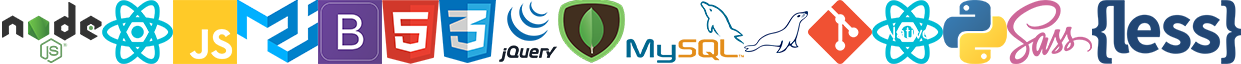
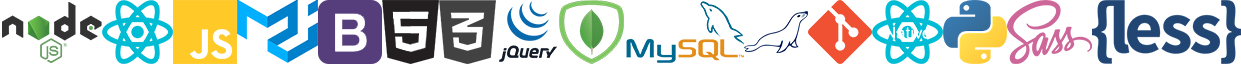
Updates

Changed region(s): [[0.245, 0.0, 0.3981, 1.0], [0.4287, 0.0, 0.5205, 1.0]]

diff --git a/src/components/talents.js b/src/components/talents.js
@@ -1,55 +1,63 @@
-import React from 'react'
+import React, { useEffect, useState } from 'react'
 
 import Box from '@material-ui/core/Box'
 import Grid from '@material-ui/core/Grid'
 import Typography from '@material-ui/core/Typography'
 import makeStyles from '@material-ui/styles/makeStyles'
 
-
 import { talentsBg } from '../config/assets'
+import { blue, pink, red } from '@material-ui/core/colors'
 
 const useStyles = makeStyles(theme => ({
-    container: {
-        display: 'flex',
-        justifyContent: "center",
-        flexWrap: 'wrap',
-        [theme.breakpoints.up('sm')]: {
-            justifyContent: "space-between"
-        }
-    },
-    list: {
-        display: 'flex',
-        justifyContent: 'center',
-        flexWrap: 'wrap',
-        '& > *': {
-            margin: theme.spacing(0.5),
-            color: "#62DAB4"
-        },
-        '& span': {
-            fontWeight: "initial"
-        }
-    },
-    section: {
+    SectionBox: {
+        outline: "none",
         outlineColor: "#62DAB4",
-        color: "#62DAB4"
+        color: "#62DAB4",
+        [theme.breakpoints.down('sm')]: {
+            padding: 20
+        }
     },
-    splitter: {
-        height: "20px"
+    MainBox: {
+        color: "white",
+        boxShadow: theme.shadows[6]
     },
-    listItemContainer: {
-        minWidth: 160,
+    HeaderText: {
+        lineHeight: .77,
+        [theme.breakpoints.down('sm')]: {
+            lineHeight: 1.2,
+            top: -15
+        }
+    },
+    InnerBox: {
+        display: "flex",
+        flexWrap: "wrap",
+        justifyContent: "center"
+    },
+    LanguageBox: {
+        backgroundColor: red["400"],
+        padding: theme.spacing(4),
+        height: "100%"
+    },
+    FrameworkBox: {
+        backgroundColor: blue["500"],
+        padding: theme.spacing(4),
+        height: "100%"
+    },
+    BackEndBox: {
+        backgroundColor: pink["500"],
+        padding: theme.spacing(4),
+        height: "100%"
+    },
+    ListItemBox: {
+        minWidth: 100,
         display: "flex",
         flexWrap: "wrap",
         flexDirection: "column",
         justifyContent: "center",
         alignItems: "center",
-        filter: "saturate(0%)",
-        transition: theme.transitions.create(
-            ["filter"],
-            { duration: theme.transitions.duration.short }
-        ),
-        "&:hover": {
-            filter: "saturate(100%)"
+        margin: theme.spacing(1),
+        '& div': {
+            filter: props => props.noInvert ? "" : "brightness(0) invert(1)",
         }
     },
     listItem: {
@@ -68,68 +76,29 @@ const useStyles = makeStyles(theme => ({
     }
 }))
 
+function Talent({ name, sizex, position, hideText, noInvert }) {
+    const classes = useStyles({ noInvert })
+
+    return (
+        <Box className={classes.ListItemBox}>
+            <div className={classes.listItem} style={{ backgroundPosition: position, width: sizex }} />
+            {hideText ?
+                ""
+                :
+                <p>{name}</p>}
+        </Box>
+    )
+}
 
 export default function Talents() {
     const classes = useStyles()
 
-    const talentsList = [
+    let backEndList = [
         {
             name: "NodeJS",
             sizex: "102px",
             position: "0 0",
             hideText: true
-        },
-        {
-            name: "ReactJS",
-            sizex: "71px",
-            position: "-102px 0"
-        },
-        {
-            name: "Javascript",
-            sizex: "64px",
-            position: "-173px 0"
-        },
-        {
-            name: "Python",
-            sizex: "64px",
-            position: "-943px 0"
-        },
-        {
-            name: "Material-UI",
-            sizex: "81px",
-            position: "-237px 0"
-        },
-        {
-            name: "Bootstrap",
-            sizex: "64px",
-            position: "-318px 0"
-        },
-        {
-            name: "HTML",
-            sizex: "57px",
-            position: "-382px 0"
-        },
-        {
-            name: "CSS",
-            sizex: "57px",
-            position: "-439px 0"
-        },
-        {
-            name: "Sass",
-            sizex: "85px",
-            position: "-1007px 0",
-            hideText: true
-        },
-        {
-            name: "less",
-            sizex: "149px",
-            position: "-1092px 0",
-            hideText: true
-        },
-        {
-            name: "jQuery",
-            sizex: "62px",
-            position: "-496px 0"
         },
         {
             name: "MongoDB",
@@ -146,33 +115,105 @@ export default function Talents() {
             name: "MariaDB",
             sizex: "64px",
             position: "-744px 0"
+        }
+    ]
+
+    let languageList = [
+        {
+            name: "Javascript",
+            sizex: "64px",
+            position: "-173px 0"
+        },
+        {
+            name: "Python",
+            sizex: "64px",
+            position: "-943px 0"
+        },
+        {
+            name: "HTML",
+            sizex: "57px",
+            position: "-382px 0"
+        },
+        {
+            name: "CSS",
+            sizex: "57px",
+            position: "-439px 0"
+        },
+        {
+            name: "Sass",
+            sizex: "85px",
+            position: "-1007px 0",
+            hideText: true
+        }
+    ]
+
+    let frameworkList = [
+        {
+            name: "ReactJS",
+            sizex: "71px",
+            position: "-102px 0"
+        },
+        {
+            name: "Material-UI",
+            sizex: "81px",
+            position: "-237px 0"
+        },
+        {
+            name: "Bootstrap",
+            sizex: "64px",
+            position: "-318px 0"
+        },
+        {
+            name: "jQuery",
+            sizex: "62px",
+            position: "-496px 0"
         },
         {
             name: "React Native",
             sizex: "71px",
-            position: "-872px 0"
+            position: "-102px 0"
+        },
+        {
+            name: "less",
+            sizex: "149px",
+            position: "-1092px 0",
+            hideText: true
         }
     ]
 
-    function Talent({ name, sizex, position, hideText }) {
-        return (
-            <Box className={classes.listItemContainer}>
-                <div className={classes.listItem} style={{ backgroundPosition: position, width: sizex }} />
-                {hideText ?
-                    ""
-                    :
-                    <p>{name}</p>}
-            </Box>
-        )
-    }
-
     return (
-        <section className={classes.section}>
+        <section className={classes.SectionBox}>
             <Grid item xs={12}>
-                <Typography variant="h2" gutterBottom color="inherit">Yetkinlikler</Typography>
-                <Box className={classes.container}>
-                    {talentsList.map(t => <Talent key={t.name.trim().toLowerCase()} {...t} />)}
-                </Box>
+                <Typography variant="h2" gutterBottom color="inherit" className={classes.HeaderText}>Yetkinlikler</Typography>
+                <div className={classes.MainBox}>
+                    <Grid container>
+                        <Grid item xs={12} sm={12} md={4} lg={4}>
+                            <div className={classes.LanguageBox}>
+                                <Typography variant="h4" gutterBottom color="inherit">Dil</Typography>
+                                <div className={classes.InnerBox}>
+                                    {languageList.map(i => <Talent key={i.name.trim().toLowerCase()} {...i} />)}
+                                </div>
+                            </div>
+                        </Grid>
+                        <Grid item xs={12} sm={12} md={4} lg={4}>
+                            <div className={classes.FrameworkBox}>
+                                <Typography variant="h4" gutterBottom color="inherit">Framework</Typography>
+                                <div className={classes.InnerBox}>
+                                    {frameworkList.map(i => <Talent key={i.name.trim().toLowerCase()} {...i} />)}
+                                </div>
+                            </div>
+
+                        </Grid>
+                        <Grid item xs={12} sm={12} md={4} lg={4}>
+                            <div className={classes.BackEndBox}>
+                                <Typography variant="h4" gutterBottom color="inherit">Back-end</Typography>
+                                <div className={classes.InnerBox}>
+                                    {backEndList.map(i => <Talent key={i.name.trim().toLowerCase()} {...i} />)}
+                                </div>
+                            </div>
+                        </Grid>
+                    </Grid>
+                </div>
             </Grid>
         </section>
     )

diff --git a/src/components/projects.js b/src/components/projects.js
@@ -17,7 +17,7 @@ import { faGlobe, faBook } from '@fortawesome/free-solid-svg-icons'
 import { purple, red } from '@material-ui/core/colors'
 
 const useStyles = makeStyles(theme => ({
-    section: {
+    SectionBox: {
         outlineColor: "transparent",
         color: "#ff5fa2",
         outline: 0,
@@ -27,7 +27,7 @@ const useStyles = makeStyles(theme => ({
             outline: "1px solid",
         },
         [theme.breakpoints.down('sm')]: {
-            padding: 10
+            padding: 20
         }
     },
     MainBox: {
@@ -91,6 +91,7 @@ const useStyles = makeStyles(theme => ({
         [theme.breakpoints.down('sm')]: {
             marginLeft: -3,
             lineHeight: 1.2,
+            top: -15
         }
     },
     PaginationBox: {
@@ -229,7 +230,7 @@ export default function Projects() {
     }
 
     return (
-        <section className={classes.section}>
+        <section className={classes.SectionBox}>
             <Box>
                 <Typography variant="h2" gutterBottom color="inherit">Projelerim</Typography>
                 <div className={classes.MainBox}>

diff --git a/src/App.js b/src/App.js
@@ -55,7 +55,7 @@ function App() {
         <Projects />
       </SectionContainer>
       {splitter}
-      <SectionContainer>
+      <SectionContainer noSpecialStyle>
         <Talents />
       </SectionContainer>
       {splitter}
